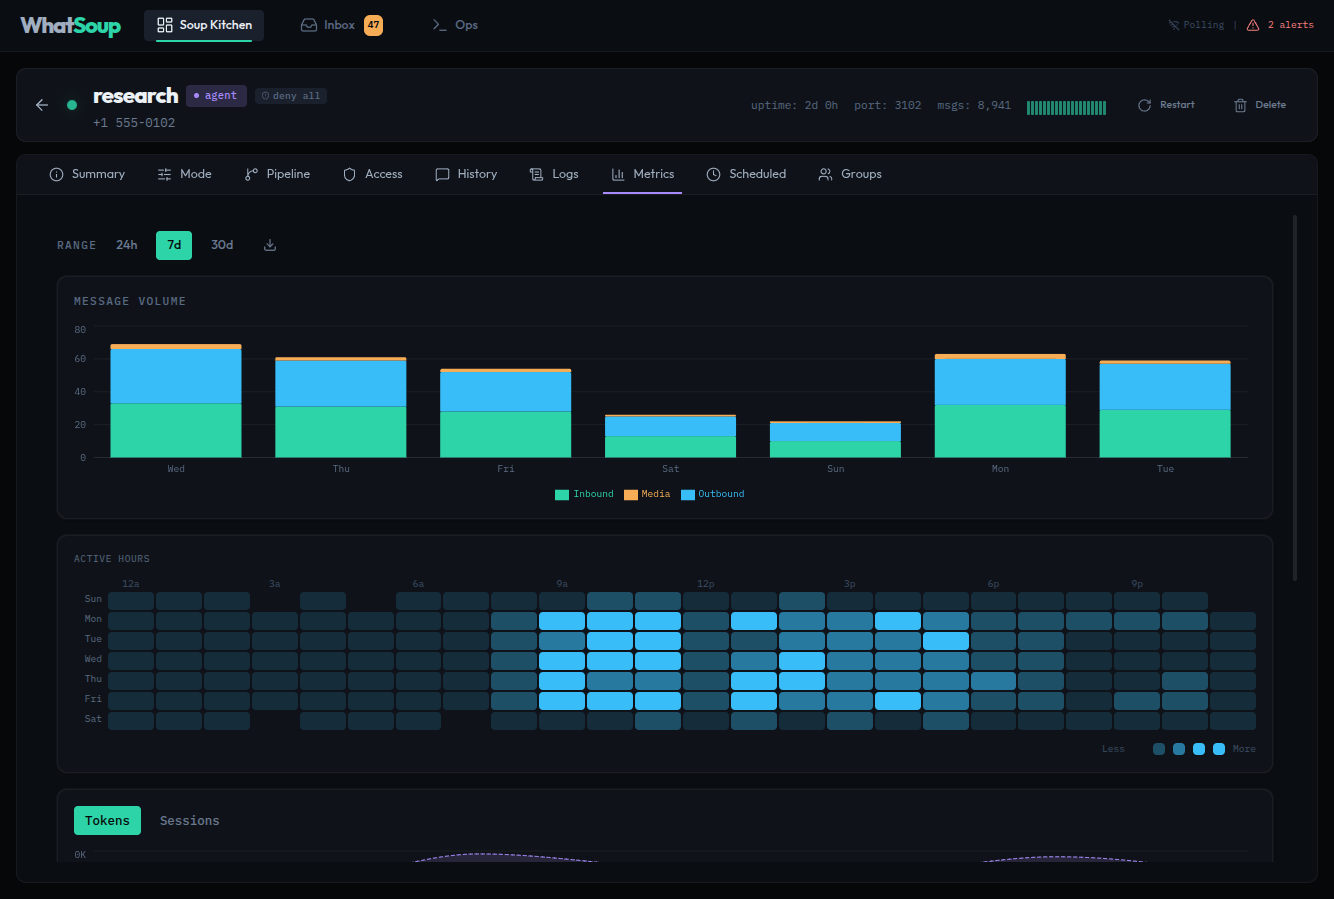
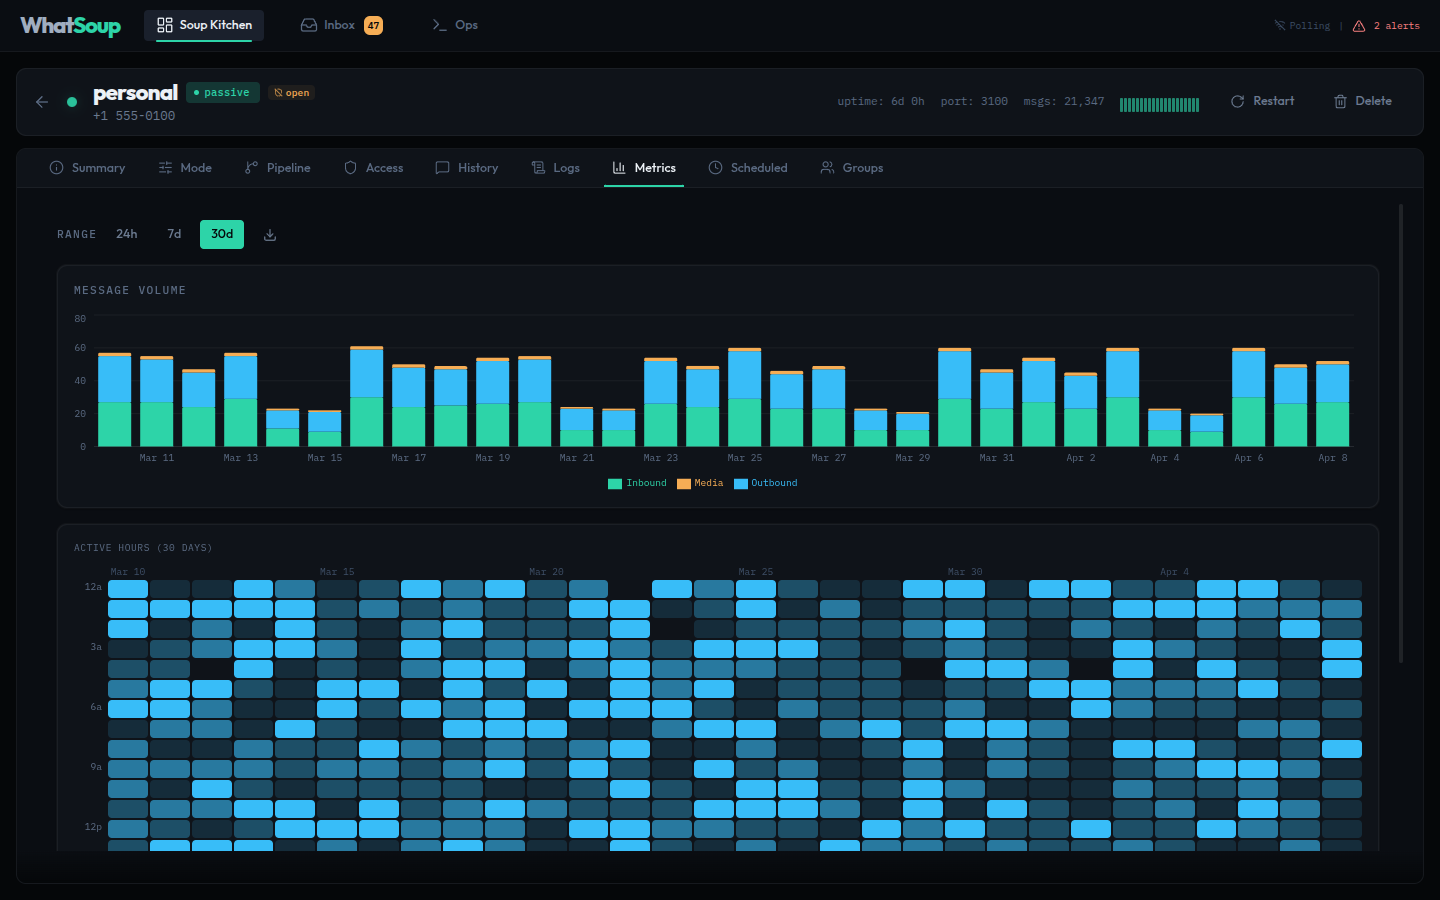
docs: update README with fresh screenshots and expanded sections
- Fresh screenshots at 1440x900 for all 4 pages (fleet overview,
  line detail metrics, ops, inbox)
- Updated test count: ~3900 tests (was ~2000)
- Added Fleet API endpoints: mark-read, contacts, metrics, fleet metrics
- New sections: Design System (TW4 @theme tokens, @layer base, ESLint),
  WebSocket Realtime (invalidation events, fallback polling)
- Expanded Key Concepts: realtime event poller with cached-path optimization
- Expanded Health & Monitoring: operational endpoints (/mark-read, /heal)
- Updated architecture tree: WebSocket server, realtime poller, 30+ components
- Added Durability Design to documentation table
- Updated component count (21 -> 30+), page descriptions

diff --git a/README.md b/README.md
@@ -18,37 +18,31 @@ These are not configuration flags on one bot. They are different codepaths with 
 
 ## Fleet Console
 
-A React dashboard for managing the entire fleet from a browser. Runs on the same port as the fleet server (production) or via Vite dev proxy (development).
+A React 19 dashboard for managing the entire fleet from a browser. Built with TypeScript, Tailwind CSS v4, React Query, and Recharts. Runs on the same port as the fleet server (production) or via Vite dev proxy (development).
 
 ### Fleet Overview
 
-KPI cards with sparklines, three fleet-wide charts (message volume, token usage by provider, session activity by provider), instance table with provider column, and live activity feed.
+KPI cards with sparklines, three fleet-wide charts (message volume, token usage by provider, session activity by provider), instance table with sorting/filtering, and live activity feed with provider badges.
 
 ![Fleet Overview](docs/screenshots/fleet-overview.png)
 
 ### Line Detail — Metrics
 
-Per-instance metrics with stacked bar chart, active hours heatmap, and tabbed token/session detail views.
+Per-instance metrics with stacked bar chart, active hours heatmap (7-day weekly pattern or 30-day per-date grid), and tabbed token/session detail views. Nine tabs: Summary, Mode, Pipeline, Access, History, Logs, Metrics, Scheduled, Groups.
 
 ![Line Detail Metrics](docs/screenshots/line-detail-metrics.png)
 
 ### Operations
 
-Health monitoring with restart, delete, and re-link actions for unhealthy instances. Log viewer with level filtering.
+Fleet status dashboard with health monitoring, restart/delete/re-link actions for unhealthy instances, and log viewer with level filtering.
 
 ![Operations](docs/screenshots/ops.png)
 
 ### Inbox
 
-Unified message inbox — select a line and chat, read messages with bubble rendering, send replies, manage contact access.
+Unified message inbox with chat list, message bubbles, send/reply, contact management (save, allow, block), and mark-read support. Line picker for switching between instances.
 
 ![Inbox](docs/screenshots/inbox.png)
-
-### Add Line Wizard
-
-5-step provisioning flow: Identity (type, name, admin phones) → Link (QR scan) → Model & Auth → Config → Review. Type-matched accent colors, inline validation, auto-generated defaults.
-
-![Add Line Wizard](docs/screenshots/add-line-wizard.png)
 
 ### Instance Lifecycle
 
@@ -57,9 +51,16 @@ Unified message inbox — select a line and chat, read messages with bubble rend
 | **Add Line** | Wizard | 5-step flow: Identity → QR scan → Model → Config → Review |
 | **Re-link** | LineDetail, Ops | Standalone QR modal for re-authenticating a disconnected instance |
 | **Configure** | LineDetail | Edit model, access, prompt, and agent settings on stopped instances |
+| **Mark Read** | Inbox | Mark conversations as read — zeroes unread count and syncs to WhatsApp |
 | **Delete** | LineDetail, Ops | Full teardown with confirmation — stops process, disables unit, removes all data |
 
-**Design system:** 60+ CSS custom properties, 40+ ESLint rules enforcing token usage. No hardcoded colors, spacing, or transition durations in components.
+### Design System
+
+60+ CSS custom properties in a Tailwind v4 `@theme` block. Type scale (`--text-xs` through `--text-2xl`) maps directly to `text-*` utility classes. 40+ ESLint rules enforce token usage — hardcoded colors, spacing, font sizes, and transitions are lint errors. Custom component classes (`c-card`, `c-btn`, `c-hover`, `c-border-*`) provide consistent surfaces with hover/transition behavior. Form resets and body styles are wrapped in `@layer base` so utility overrides work correctly.
+
+### WebSocket Realtime
+
+The fleet server broadcasts invalidation events over WebSocket. The console subscribes and automatically refetches stale data — no polling delay for messages, chat updates, log changes, access changes, or typing indicators. Falls back to polling when WebSocket is disconnected.
 
 ```bash
 # Development
@@ -102,7 +103,7 @@ For development:
 
 ```bash
 npm run typecheck         # tsc --noEmit
-npm test                  # ~2000 tests, ~15s, real SQLite, no mocks
+npm test                  # ~3900 tests, ~23s, real SQLite, no mocks
 cd console && npm run dev # Vite dev server with hot reload + API proxy
 ```
 
@@ -117,10 +118,12 @@ src/
     passive/      Store-only. No auto-response. MCP socket for external access.
     chat/         LLM API — Anthropic/OpenAI, Pinecone RAG, enrichment, media
     agent/        Claude Code subprocess — sessions, sandbox, outbound queue
-  fleet/          Fleet management server — discovery, health polling, API routes
-    routes/       REST API handlers (lines, ops, data, feed)
+  fleet/          Fleet management server — discovery, health polling, API routes, WebSocket
+    routes/       REST API handlers (lines, ops, data, feed, metrics)
     discovery.ts  Config-dir scanner, instance registry
     health-poller.ts  5-second health probe per instance
+    realtime-event-poller.ts  2-second snapshot-diff for WebSocket invalidation
+    websocket-server.ts  WS broadcast for realtime console updates
     static.ts     SPA serving with token injection
   lib/            Shared utilities — HTTP helpers, text utils, validation
   config.ts       Instance-aware config from JSON + env vars
@@ -129,11 +132,11 @@ src/
 
 console/
   src/
-    components/   21 React components (modals, cards, badges, forms, wizards)
+    components/   30+ React components (modals, cards, badges, charts, forms, wizards)
     pages/        4 pages (SoupKitchen, Ops, Inbox, LineDetail)
-    hooks/        React Query data hooks, toast system, sticky scroll
-    lib/          API client with mock fallback, formatting, text utils
-    index.css     Design system — tokens, utilities, component classes
+    hooks/        React Query data hooks, WebSocket realtime, toast system
+    lib/          API client with mock fallback, chart utils, formatting
+    index.css     Design system — @theme tokens, @layer base/utilities, component classes
 
 deploy/
   whatsoup@.service   systemd template unit (one per instance)
@@ -156,10 +159,14 @@ The fleet server exposes a REST API on `127.0.0.1:9099` with Bearer token auth.
 | `POST` | `/api/lines/:name/stop` | Stop systemd unit |
 | `POST` | `/api/lines/:name/send` | Send a message through the instance |
 | `POST` | `/api/lines/:name/access` | Update access control |
+| `POST` | `/api/lines/:name/mark-read` | Mark a conversation as read |
+| `POST` | `/api/lines/:name/contacts` | Save a contact |
 | `GET` | `/api/lines/:name/chats` | List chats for an instance |
 | `GET` | `/api/lines/:name/messages` | Fetch messages for a chat |
+| `GET` | `/api/lines/:name/metrics` | Per-instance metrics (24h, 7d, 30d) |
 | `GET` | `/api/lines/:name/access` | View access control list |
 | `GET` | `/api/lines/:name/logs` | View instance logs |
+| `GET` | `/api/metrics` | Fleet-wide aggregated metrics |
 | `GET` | `/api/feed` | Activity feed (all instances) |
 | `GET` | `/api/typing` | Currently typing indicators |
 
@@ -204,6 +211,8 @@ Access modes: `self_only` (just you), `allowlist` (approved contacts), `open_dm`
 
 **Media bridge** — Unix socket per workspace that lets Claude Code subprocesses send WhatsApp media (images, documents, audio) without direct Baileys access. The agent runtime owns the bridge; the subprocess just writes to a socket.
 
+**Realtime event poller** — Snapshot-diff engine running every 2 seconds. Tracks per-instance markers (latest message PK, access list changes, log file mtime) and emits WebSocket invalidation events only when something changes. Log file tracking uses a cached-path optimization — steady-state polls do a single `statSync` instead of scanning the log directory.
+
 **linkedStatus** — Each instance in the fleet API includes `linkedStatus: 'linked' | 'unlinked'` based on whether Baileys auth credentials exist. Unlinked instances show a "Re-link" button instead of "Restart" since they need QR authentication before they can run.
 
 ## Health & Monitoring
@@ -216,17 +225,21 @@ curl http://127.0.0.1:9093/health
 
 Returns connection status, uptime, message counts, enrichment state, durability stats, and model configuration. The health port is configurable per instance.
 
+The health server also exposes operational endpoints: `/send` (send messages), `/access` (allow/block contacts), `/mark-read` (mark chats as read), `/heal` (inject repair reports), and `/typing` (composing indicators).
+
 The fleet server's health poller probes each instance every 5 seconds and tracks consecutive failures to determine status: `online` → `degraded` (1-2 failures) → `unreachable` (3+). The console displays this as a color-coded heartbeat strip.
 
 ## Testing
 
 ```bash
-npm test              # ~2000 tests, ~15s
+npm test              # ~3900 tests, ~23s
 npm run test:watch    # watch mode
 npm run typecheck     # tsc --noEmit
 ```
 
 Tests use real SQLite (`:memory:` or temp files) and real Unix sockets. No infrastructure mocks. If the test passes, it works. If it doesn't, the mock was lying to you — which is why there aren't any.
+
+Coverage includes: ingest backpressure (semaphore + overflow queue), relay guardrails (config gate + payload size cap), mark-read API (health handler + fleet proxy), realtime event poller (log mtime tracking, snapshot-diff), and design system compliance (14 regression tests + 40+ ESLint rules).
 
 ## Documentation
 
@@ -236,6 +249,7 @@ Tests use real SQLite (`:memory:` or temp files) and real Unix sockets. No infra
 | [Configuration Reference](docs/configuration.md) | Full config schema, env vars, worked examples, **per-instance plugin scoping** |
 | [MCP Tool Reference](docs/tools.md) | All 127 tools with scopes, parameters, replay policies |
 | [Runbook](docs/runbook.md) | Operational procedures and troubleshooting |
+| [Durability Design](docs/durability.md) | Durability engine design, state machines, recovery algorithms |
 
 ## License
 
